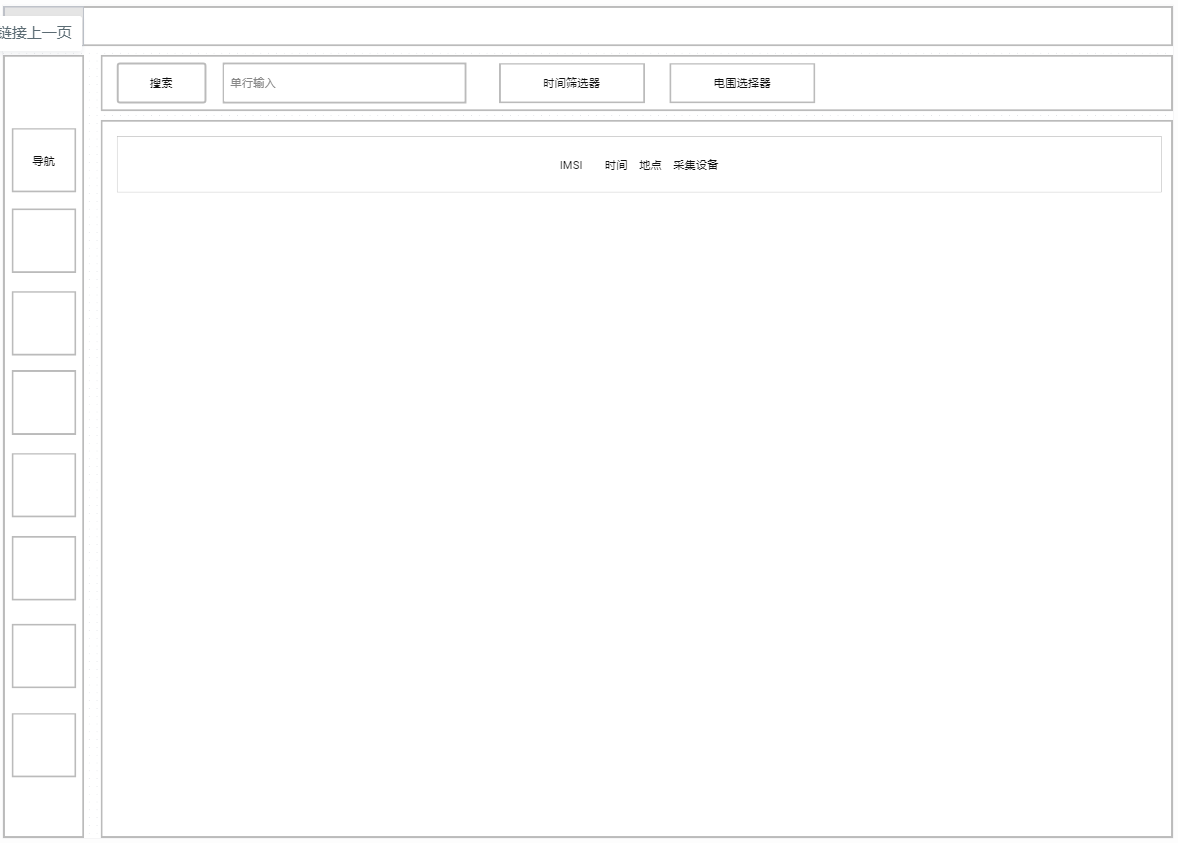
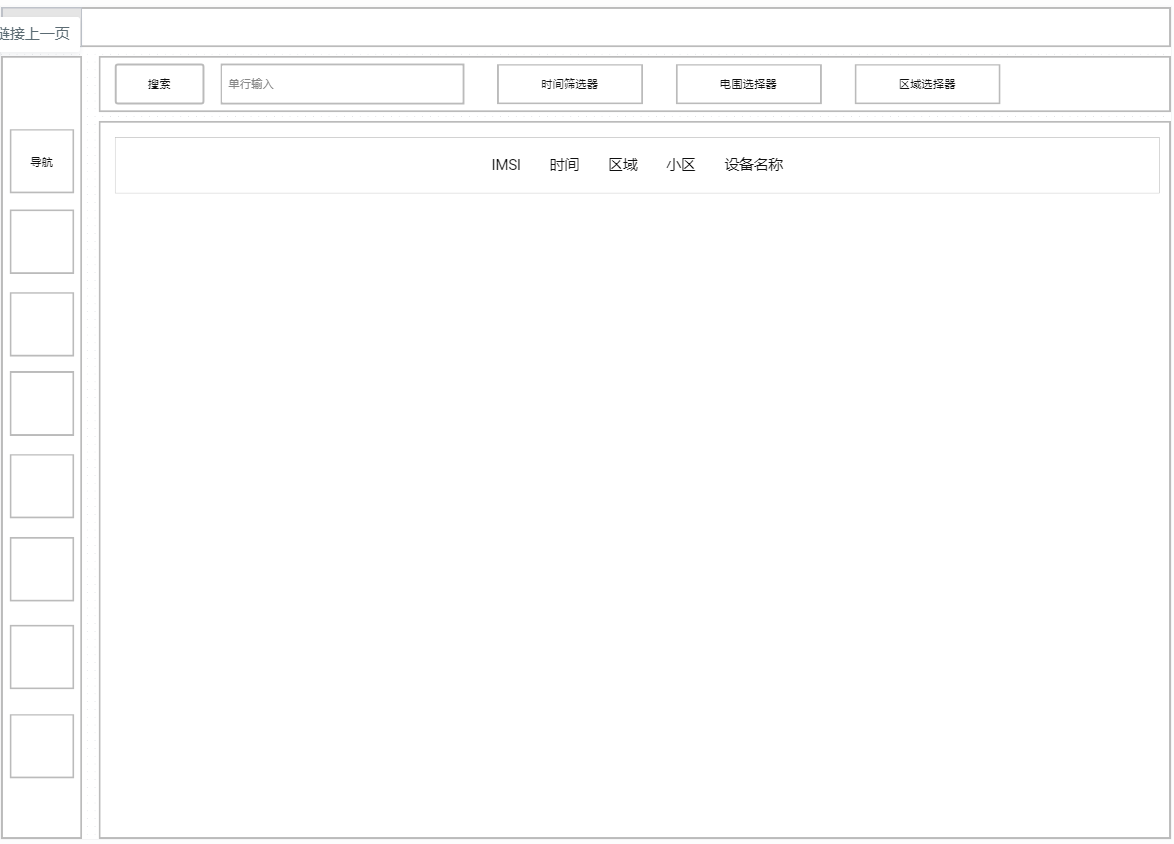
1

Changed region(s): [[0.0, 0.0, 1.0, 0.987], [0.3986, 0.1851, 0.6746, 0.2159]]

diff --git a/醒目云前台/检索/车辆检索.md b/醒目云前台/检索/车辆检索.md
@@ -34,15 +34,15 @@
 
 ##### 产品背景
 
-	人脸识别是现阶段通过图像识别来判断一个人员身份的主要手段之一，其中人脸检索是人脸识别的最重要的应用
+	车辆识别作为公安视频追踪的手段之一，主要通过车牌识别
 
 ##### 方案概述
 
-	对抓拍库进行时间、相机维度的人脸比对检索，默认按相似度的排序，可选时间排序
+	对抓拍库进行时间、相机等维度的车辆比对检索，默认按相似度的排序，车牌识别的比重最大
 
 ##### 产品目标
 
-	展示区级运营成果，后期改版成大屏版
+	车辆检索
 
 ##### 功能列表
 
@@ -50,7 +50,7 @@
 
 | 功能名称 | 功能介绍 |
 | -------- | -------- |
-| 人脸检索 | 人脸检索 |
+| 车辆检索 | 车辆检索 |
 
 
 
@@ -58,23 +58,20 @@
 
 ### 产品功能
 
-#####综治大数据首页
+#####车辆检索
 
 ######界面
 
-![](https://raw.githubusercontent.com/dalin1991/brighteye/master/%E9%86%92%E7%9B%AE%E4%BA%91%E5%89%8D%E5%8F%B0/%E6%A3%80%E7%B4%A2/%E5%9B%BE%E7%89%87/%E4%BA%BA%E8%84%B8%E6%A3%80%E7%B4%A2.jpg)
+![](https://raw.githubusercontent.com/dalin1991/brighteye/master/%E9%86%92%E7%9B%AE%E4%BA%91%E5%89%8D%E5%8F%B0/%E6%A3%80%E7%B4%A2/%E5%9B%BE%E7%89%87/%E8%BD%A6%E8%BE%86%E6%A3%80%E7%B4%A2.jpg)
 
 ###### 功能说明
 
 ```
 交互
-	上传图片限制最多5张（足够涵盖正脸、左侧脸、右侧脸、低头、遮挡）
-	相机选择器：按照账号的区域权限，生成设备树。
-		列入 账号权限配到南昌市-高新区，则生成高新区-小区-相机
-		配到南昌市-高新区/红谷滩区，则生成南昌市-高新区/红谷滩区-小区-相机
-		admin的账号则为全部-省
-	时间选择器：限制选择时间，从当天往前推6天，共计7天
-	默认按相似度排序，可选按时间排序
-	点击搜索出的图片，展示大图弹窗
+	上传图片，后端对图片进行属性识别，返回给前端，前端通过返回的属性去选择下面的选择项，上传多张图片时，如果属性与已经选择的选择项冲突，则将该属性还原成无；
+	属性选择在任何时刻都可选择
+	车牌冲突时进行弹窗提示
+	
+	轨迹交互参考行人检索
 ```
 

diff --git a/醒目云前台/检索/轨迹.md b/醒目云前台/检索/轨迹.md
@@ -1,0 +1,76 @@
+## 轨迹产品说明书
+
+***目录***
+
+[TOC]
+
+------
+
+###产品背景
+
+##### 内容说明
+
+	本文档用于描轨迹产品需求及定义，是该系统唯一全面的需求定义文档
+	
+	内容包括产品及其他子系统之间的关系、功能描述、逻辑规则、界面定义等多个方面的说明
+	
+	根本需求管理的流程和要求，产品经理会根据功能的变化及时修订更新本文档，从而保障文档的全面性、准确性和时效性。因此在阅读本文档之前，请先确认获取最新版本
+
+##### 适用范围
+
+	**本文档仅供研发及产品运营团队阅读使用，严格禁止将文档发送给无关人员**
+
+##### 相关术语		
+
+| 字段名 | 定义 |
+| :----- | ---- |
+|        |      |
+
+
+
+------
+
+### 产品概述
+
+##### 产品背景
+
+	轨迹用于展示分析目标人的出现规律、出行动向等
+
+##### 方案概述
+
+	通过将历史数据按时间串联后，在地图上展示信息
+
+##### 产品目标
+
+	轨迹展示
+
+##### 功能列表
+
+	
+
+| 功能名称 | 功能介绍 |
+| -------- | -------- |
+| 轨迹     | 轨迹     |
+
+
+
+------
+
+### 产品功能
+
+#####轨迹
+
+######界面
+
+![](https://raw.githubusercontent.com/dalin1991/brighteye/master/%E9%86%92%E7%9B%AE%E4%BA%91%E5%89%8D%E5%8F%B0/%E6%A3%80%E7%B4%A2/%E5%9B%BE%E7%89%87/%E8%BD%A8%E8%BF%B9.jpg)
+
+###### 功能说明
+
+```
+数据
+	地图上展示相应的相机点位，之间没有互相连线，按照时间顺序展示12345的标识，如果一个相机上有重复序号，则最多展示3个，后用123...展示
+交互
+	点击开始按钮后
+	从1号点位出发，然后一个箭头带着连线往2号点位出发，依此类推
+	点击右边抓拍记录列表，高亮点位，如果在动画效果中，则暂停
+```

diff --git a/醒目云前台/检索/行人检索.md b/醒目云前台/检索/行人检索.md
@@ -1,0 +1,76 @@
+## 行人检索产品说明书
+
+***目录***
+
+[TOC]
+
+------
+
+###产品背景
+
+##### 内容说明
+
+	本文档用于描行人检索产品需求及定义，是该系统唯一全面的需求定义文档
+	
+	内容包括产品及其他子系统之间的关系、功能描述、逻辑规则、界面定义等多个方面的说明
+	
+	根本需求管理的流程和要求，产品经理会根据功能的变化及时修订更新本文档，从而保障文档的全面性、准确性和时效性。因此在阅读本文档之前，请先确认获取最新版本
+
+##### 适用范围
+
+	**本文档仅供研发及产品运营团队阅读使用，严格禁止将文档发送给无关人员**
+
+##### 相关术语		
+
+| 字段名 | 定义 |
+| :----- | ---- |
+|        |      |
+
+
+
+------
+
+### 产品概述
+
+##### 产品背景
+
+	行人检索主要用视频追踪手段，在嫌疑人未被拍到脸的情况下，来跟踪嫌疑人直到被拍到人脸
+
+##### 方案概述
+
+	通过行人属性对行人抓拍图进行检索
+
+##### 产品目标
+
+	行人检索
+
+##### 功能列表
+
+	
+
+| 功能名称 | 功能介绍 |
+| -------- | -------- |
+| 行人检索 | 行人检索 |
+
+
+
+------
+
+### 产品功能
+
+#####行人检索
+
+######界面
+
+![](https://raw.githubusercontent.com/dalin1991/brighteye/master/%E9%86%92%E7%9B%AE%E4%BA%91%E5%89%8D%E5%8F%B0/%E6%A3%80%E7%B4%A2/%E5%9B%BE%E7%89%87/%E8%A1%8C%E4%BA%BA%E6%A3%80%E7%B4%A2.jpg)
+
+###### 功能说明
+
+```
+交互
+	上传限制5张，属性选择逻辑同车辆
+	点击悬浮的问号，将该图添加到右侧轨迹图缓存区（样式待设计），逻辑同购物车
+	点击缓存区展示已经添加的图片，点击生成轨迹按钮跳转到轨迹页
+	
+```
+

diff --git a/醒目云前台/检索/IMSI检索.md b/醒目云前台/检索/IMSI检索.md
@@ -1,0 +1,76 @@
+## IMSI检索产品说明书
+
+***目录***
+
+[TOC]
+
+------
+
+###产品背景
+
+##### 内容说明
+
+	本文档用于描行人检索产品需求及定义，是该系统唯一全面的需求定义文档
+	
+	内容包括产品及其他子系统之间的关系、功能描述、逻辑规则、界面定义等多个方面的说明
+	
+	根本需求管理的流程和要求，产品经理会根据功能的变化及时修订更新本文档，从而保障文档的全面性、准确性和时效性。因此在阅读本文档之前，请先确认获取最新版本
+
+##### 适用范围
+
+	**本文档仅供研发及产品运营团队阅读使用，严格禁止将文档发送给无关人员**
+
+##### 相关术语		
+
+| 字段名 | 定义 |
+| :----- | ---- |
+|        |      |
+
+
+
+------
+
+### 产品概述
+
+##### 产品背景
+
+	行人检索主要用视频追踪手段，在嫌疑人未被拍到脸的情况下，来跟踪嫌疑人直到被拍到人脸
+
+##### 方案概述
+
+	通过行人属性对行人抓拍图进行检索
+
+##### 产品目标
+
+	行人检索
+
+##### 功能列表
+
+	
+
+| 功能名称 | 功能介绍 |
+| -------- | -------- |
+| 行人检索 | 行人检索 |
+
+
+
+------
+
+### 产品功能
+
+#####IMSI检索
+
+######界面
+
+![](https://raw.githubusercontent.com/dalin1991/brighteye/master/%E9%86%92%E7%9B%AE%E4%BA%91%E5%89%8D%E5%8F%B0/%E6%A3%80%E7%B4%A2/%E5%9B%BE%E7%89%87/IMSI%E6%A3%80%E7%B4%A2.jpg)
+
+###### 功能说明
+
+```
+交互
+	上传限制5张，属性选择逻辑同车辆
+	点击悬浮的问号，将该图添加到右侧轨迹图缓存区（样式待设计），逻辑同购物车
+	点击缓存区展示已经添加的图片，点击生成轨迹按钮跳转到轨迹页
+	
+```
+

diff --git a/醒目云前台/检索/人脸检索.md b/醒目云前台/检索/人脸检索.md
@@ -42,7 +42,7 @@
 
 ##### 产品目标
 
-	展示区级运营成果，后期改版成大屏版
+	人脸检索
 
 ##### 功能列表
 
@@ -58,7 +58,7 @@
 
 ### 产品功能
 
-#####综治大数据首页
+#####人脸检索
 
 ######界面
 
@@ -73,9 +73,9 @@
 		列入 账号权限配到南昌市-高新区，则生成高新区-小区-相机
 		配到南昌市-高新区/红谷滩区，则生成南昌市-高新区/红谷滩区-小区-相机
 		admin的账号则为全部-省
-	时间选择器：限制选择时间，从当天往前推6天，共计7天
+	时间选择器：限制选择时间，最长7天，默认选择时间为当天，即09-05 00:00到09-05 24:00；检索时间选择器都为该逻辑
 	默认按相似度排序，可选按时间排序
 	点击搜索出的图片，展示大图弹窗
 	
-	轨迹功能详见车辆检索PRD
+	轨迹功能详见行人检索PRD
 ```
